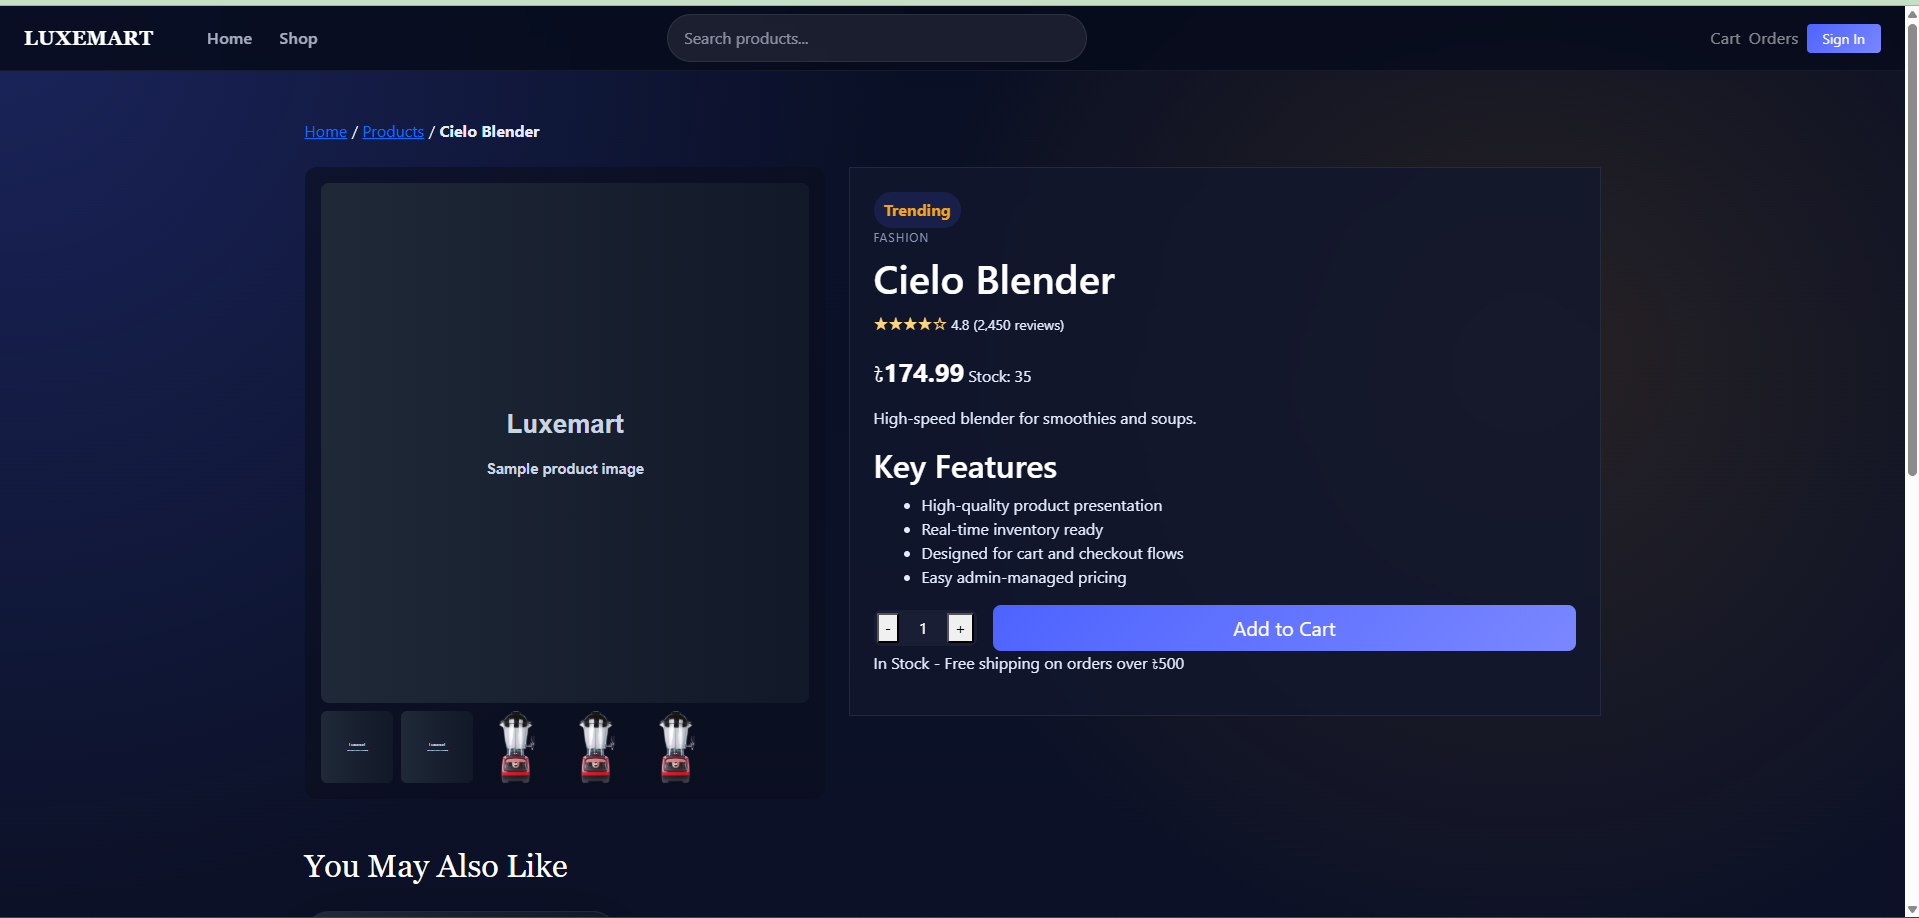
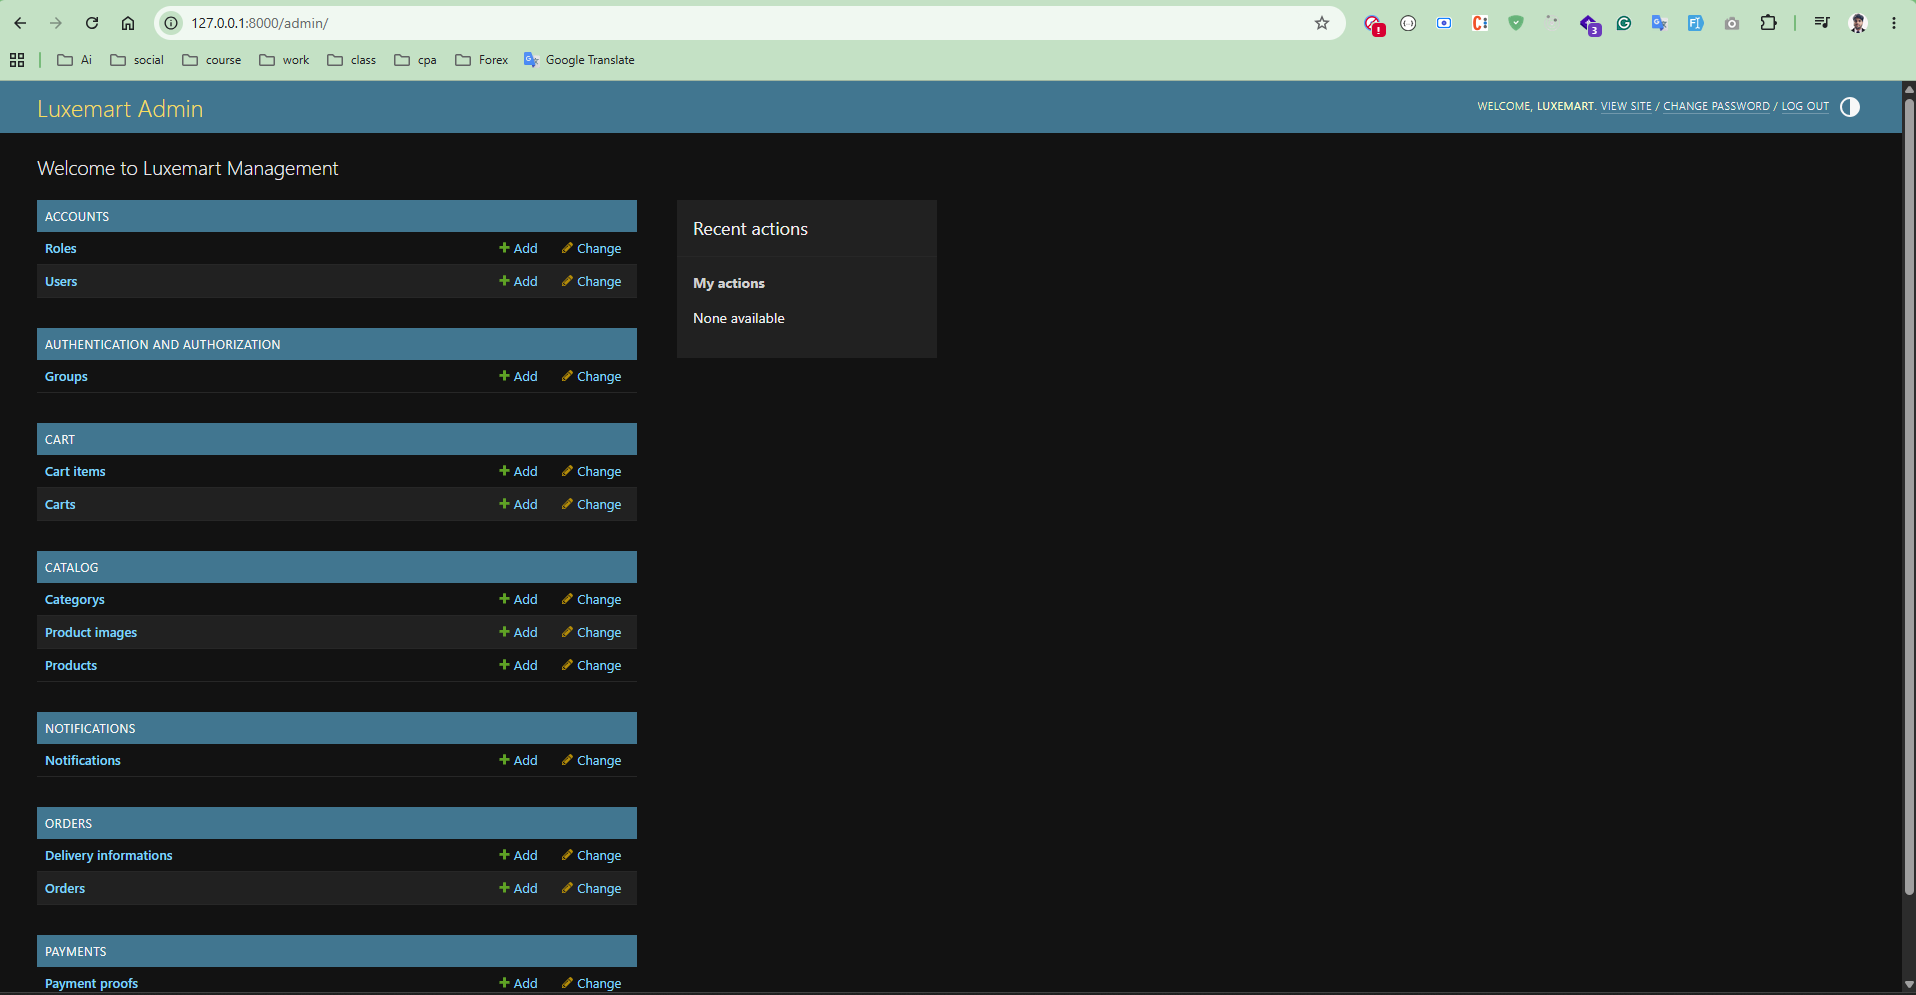
user and admin both signin page is fixed

diff --git a/templates/admin/login.html b/templates/admin/login.html
@@ -1,135 +1,128 @@
-{% extends "admin/base_site.html" %}
 {% load i18n static %}
+<!DOCTYPE html>
+<html lang="en">
+<head>
+    <meta charset="UTF-8">
+    <meta name="viewport" content="width=device-width, initial-scale=1.0">
+    <title>{% translate 'Log in' %} | Luxemart Admin</title>
+    <link href="https://cdn.jsdelivr.net/npm/bootstrap@5.3.3/dist/css/bootstrap.min.css" rel="stylesheet">
+    <link rel="stylesheet" href="{% static 'css/app.css' %}">
+    <style>
+        body {
+            background: radial-gradient(circle at top left, rgba(77, 99, 255, 0.25), transparent 35%),
+                        radial-gradient(circle at 80% 20%, rgba(247, 162, 27, 0.12), transparent 30%),
+                        linear-gradient(180deg, #090f24 0%, #0b1127 38%, #0b1022 100%) !important;
+            min-height: 100vh;
+            display: flex;
+            align-items: center;
+            justify-content: center;
+            color: #e5ecff;
+            font-family: 'Segoe UI', system-ui, -apple-system, sans-serif;
+        }
+        .admin-login-card {
+            background: rgba(17, 23, 45, 0.76);
+            border: 1px solid rgba(255, 255, 255, 0.08);
+            border-radius: 24px;
+            padding: 3.5rem;
+            box-shadow: 0 24px 60px rgba(0, 0, 0, 0.4);
+            backdrop-filter: blur(16px);
+            width: 100%;
+            max-width: 500px;
+        }
+        .luxe-brand {
+            font-family: 'Georgia', serif;
+            letter-spacing: 0.1em;
+            text-transform: uppercase;
+            font-size: 2rem;
+            margin-bottom: 0.5rem;
+            display: block;
+        }
+        .form-label {
+            font-weight: 700;
+            font-size: 0.9rem;
+            margin-bottom: 0.6rem;
+            color: #fff;
+        }
+        .form-control {
+            background: rgba(255, 255, 255, 0.08) !important;
+            border: 1px solid rgba(255, 255, 255, 0.12) !important;
+            color: #fff !important;
+            padding: 0.8rem 1.1rem !important;
+            border-radius: 12px !important;
+        }
+        .form-control:focus {
+            background-color: rgba(255, 255, 255, 0.1) !important;
+            border-color: rgba(125, 211, 252, 0.55) !important;
+            box-shadow: 0 0 0 0.2rem rgba(56, 189, 248, 0.16) !important;
+        }
+        .btn-primary {
+            background: linear-gradient(135deg, #4d63ff, #7a87ff) !important;
+            border: none !important;
+            padding: 1rem !important;
+            border-radius: 12px !important;
+            font-weight: 700 !important;
+            text-transform: uppercase;
+            letter-spacing: 0.08em;
+            margin-top: 1rem;
+        }
+        .errornote {
+            background: rgba(239, 68, 68, 0.14);
+            border: 1px solid rgba(239, 68, 68, 0.25);
+            border-radius: 12px;
+            color: #fecaca;
+            padding: 1rem;
+            margin-bottom: 2rem;
+            font-size: 0.85rem;
+            text-align: center;
+        }
+        .admin-footer {
+            margin-top: 2.5rem;
+            text-align: center;
+            font-size: 0.85rem;
+            color: rgba(229, 236, 255, 0.5);
+        }
+    </style>
+</head>
+<body>
+    <div class="admin-login-card">
+        <div class="text-center mb-5">
+            <span class="luxe-brand">LUXEMART</span>
+            <h1 class="h4 text-white mb-2">Staff Portal</h1>
+            <p class="text-muted small">Authorized access only</p>
+        </div>
 
-{% block extrastyle %}
-{{ block.super }}
-<link rel="stylesheet" href="{% static 'css/app.css' %}">
-<style>
-    body {
-        display: flex;
-        align-items: center;
-        justify-content: center;
-        min-height: 100vh;
-        margin: 0;
-    }
-    #container {
-        background: none !important;
-        border: none !important;
-        width: 100%;
-        max-width: 450px;
-        padding: 0 1rem;
-    }
-    #content {
-        padding: 0 !important;
-    }
-    .login #header {
-        background: none !important;
-        border: none !important;
-        text-align: center;
-        margin-bottom: 2rem;
-    }
-    .login #branding h1 {
-        font-family: 'Georgia', serif;
-        font-size: 2.5rem;
-        color: #fff !important;
-        margin: 0;
-    }
-    .luxe-card-admin {
-        background: rgba(17, 23, 45, 0.76);
-        border: 1px solid rgba(255, 255, 255, 0.08);
-        border-radius: 24px;
-        padding: 2.5rem;
-        box-shadow: 0 24px 60px rgba(0, 0, 0, 0.24);
-        backdrop-filter: blur(16px);
-    }
-    .login .form-row {
-        padding: 0 !important;
-        margin-bottom: 1.5rem;
-        border: none !important;
-    }
-    .login .form-row label {
-        display: block;
-        margin-bottom: 0.5rem;
-        color: rgba(229, 236, 255, 0.82);
-        font-weight: 700;
-    }
-    .login .form-row input {
-        width: 100% !important;
-        padding: 0.8rem 1rem !important;
-        border-radius: 12px !important;
-        background: rgba(255, 255, 255, 0.08) !important;
-        border: 1px solid rgba(255, 255, 255, 0.12) !important;
-        color: #fff !important;
-        box-sizing: border-box;
-    }
-    .submit-row {
-        padding: 0 !important;
-        margin: 2rem 0 0 !important;
-        background: none !important;
-        border: none !important;
-    }
-    .submit-row input {
-        width: 100% !important;
-        padding: 1rem !important;
-        border-radius: 12px !important;
-        background: linear-gradient(135deg, #4d63ff, #7a87ff) !important;
-        color: #fff !important;
-        font-weight: 700 !important;
-        text-transform: uppercase;
-        letter-spacing: 0.05em;
-        border: none !important;
-        cursor: pointer;
-        transition: opacity 0.2s;
-    }
-    .submit-row input:hover {
-        opacity: 0.9;
-    }
-    .errornote {
-        background: rgba(239, 68, 68, 0.18) !important;
-        border: 1px solid rgba(239, 68, 68, 0.32) !important;
-        border-radius: 12px !important;
-        color: #fecaca !important;
-        padding: 1rem !important;
-        margin-bottom: 1.5rem !important;
-    }
-</style>
-{% endblock %}
+        {% if form.errors and not form.non_field_errors %}
+            <div class="errornote">
+                {% blocktranslate count counter=form.errors.items|length %}Please correct the error below.{% plural %}Please correct the errors below.{% endblocktranslate %}
+            </div>
+        {% endif %}
 
-{% block content %}
-<div class="luxe-card-admin">
-    {% if form.errors and not form.non_field_errors %}
-    <p class="errornote">
-    {% if form.errors.items|length == 1 %}{% translate "Please correct the error below." %}{% else %}{% translate "Please correct the errors below." %}{% endif %}
-    </p>
-    {% endif %}
+        {% if form.non_field_errors %}
+            {% for error in form.non_field_errors %}
+                <div class="errornote">{{ error }}</div>
+            {% endfor %}
+        {% endif %}
 
-    {% if form.non_field_errors %}
-    {% for error in form.non_field_errors %}
-    <p class="errornote">
-        {{ error }}
-    </p>
-    {% endfor %}
-    {% endif %}
+        <form action="{{ app_path }}" method="post" id="login-form">
+            {% csrf_token %}
+            <div class="mb-4">
+                <label for="id_username" class="form-label">Username or Email</label>
+                <input type="text" name="username" class="form-control" id="id_username" required autofocus placeholder="Enter your credentials">
+            </div>
+            <div class="mb-4">
+                <label for="id_password" class="form-label">Password</label>
+                <input type="password" name="password" class="form-control" id="id_password" required placeholder="••••••••">
+                <input type="hidden" name="next" value="{{ next }}">
+            </div>
+            
+            <div class="d-grid">
+                <button type="submit" class="btn btn-primary btn-lg">Authorize Access</button>
+            </div>
+        </form>
 
-    <form action="{{ app_path }}" method="post" id="login-form">{% csrf_token %}
-      <div class="form-row">
-        {{ form.username.errors }}
-        {{ form.username.label_tag }} {{ form.username }}
-      </div>
-      <div class="form-row">
-        {{ form.password.errors }}
-        {{ form.password.label_tag }} {{ form.password }}
-        <input type="hidden" name="next" value="{{ next }}">
-      </div>
-      {% url 'admin_password_reset' as password_reset_url %}
-      {% if password_reset_url %}
-      <div class="password-reset-link" style="text-align: right; margin-top: -10px;">
-        <a href="{{ password_reset_url }}" style="color: #b8c2ff; text-decoration: none; font-size: 0.85rem;">{% translate 'Forgotten your password or username?' %}</a>
-      </div>
-      {% endif %}
-      <div class="submit-row">
-        <input type="submit" value="{% translate 'Log in' %}">
-      </div>
-    </form>
-</div>
-{% endblock %}
+        <div class="admin-footer">
+            &copy; 2026 Luxemart. Control Center.
+        </div>
+    </div>
+</body>
+</html>

diff --git a/templates/accounts/login.html b/templates/accounts/login.html
@@ -1,27 +1,51 @@
 {% extends 'base.html' %}
 {% block title %}Sign In | Luxemart{% endblock %}
 {% block content %}
-<div class="row justify-content-center">
+<div class="row justify-content-center align-items-center" style="min-height: 70vh;">
   <div class="col-md-5">
-    <div class="luxe-card p-4">
-      <h1 class="h3 mb-4 text-center">Sign In</h1>
+    <div class="luxe-card p-5">
+      <div class="text-center mb-5">
+        <h1 class="h2 mb-2">Welcome Back</h1>
+        <p class="text-muted">Enter your credentials to access your account.</p>
+      </div>
+
       <form method="post" class="admin-form">
         {% csrf_token %}
         {{ form.non_field_errors }}
-        <div class="mb-3">
-          <label for="{{ form.username.id_for_label }}" class="form-label">Username or Email</label>
-          {{ form.username }}
+        
+        <div class="mb-4">
+          <label for="{{ form.username.id_for_label }}" class="form-label fw-bold">Username or Email</label>
+          <div class="input-group">
+            {{ form.username }}
+          </div>
           {{ form.username.errors }}
         </div>
+
         <div class="mb-4">
-          <label for="{{ form.password.id_for_label }}" class="form-label">Password</label>
-          {{ form.password }}
+          <div class="d-flex justify-content-between">
+            <label for="{{ form.password.id_for_label }}" class="form-label fw-bold">Password</label>
+            <a href="#" class="text-primary small text-decoration-none">Forgot Password?</a>
+          </div>
+          <div class="input-group">
+            {{ form.password }}
+          </div>
           {{ form.password.errors }}
         </div>
-        <button type="submit" class="btn btn-primary w-100 btn-lg">Sign In</button>
+
+        <div class="mb-4">
+          <div class="form-check">
+            <input class="form-check-input" type="checkbox" id="rememberMe">
+            <label class="form-check-label text-muted small" for="rememberMe">
+              Remember me for 30 days
+            </label>
+          </div>
+        </div>
+
+        <button type="submit" class="btn btn-primary w-100 btn-lg py-3 fw-bold">Sign In to Account</button>
       </form>
-      <div class="mt-4 text-center">
-        <p class="mb-0">Don't have an account? <a href="{% url 'accounts:register' %}" class="text-primary fw-bold">Sign Up</a></p>
+
+      <div class="mt-5 text-center">
+        <p class="mb-0">New to Luxemart? <a href="{% url 'accounts:register' %}" class="text-primary fw-bold text-decoration-none">Create an account</a></p>
       </div>
     </div>
   </div>

diff --git a/apps/accounts/forms.py b/apps/accounts/forms.py
@@ -1,6 +1,6 @@
 from django import forms
 from django.contrib.auth import get_user_model
-from django.contrib.auth.forms import UserCreationForm
+from django.contrib.auth.forms import AuthenticationForm, UserCreationForm
 
 
 class UserRegistrationForm(UserCreationForm):
@@ -28,3 +28,10 @@ class UserRegistrationForm(UserCreationForm):
         if commit:
             user.save()
         return user
+
+
+class UserLoginForm(AuthenticationForm):
+    def __init__(self, *args, **kwargs):
+        super().__init__(*args, **kwargs)
+        for field in self.fields:
+            self.fields[field].widget.attrs.update({'class': 'form-control'})

diff --git a/apps/accounts/urls.py b/apps/accounts/urls.py
@@ -2,12 +2,13 @@ from django.contrib.auth import views as auth_views
 from django.urls import path
 
 from . import views
+from .forms import UserLoginForm
 
 app_name = "accounts"
 
 urlpatterns = [
     path("profile/", views.profile, name="profile"),
-    path("login/", auth_views.LoginView.as_view(template_name="accounts/login.html"), name="login"),
+    path("login/", auth_views.LoginView.as_view(template_name="accounts/login.html", authentication_form=UserLoginForm), name="login"),
     path("logout/", auth_views.LogoutView.as_view(), name="logout"),
     path("register/", views.register, name="register"),
 ]

diff --git a/apps/catalog/admin.py b/apps/catalog/admin.py
@@ -55,3 +55,8 @@ class ProductImageAdmin(admin.ModelAdmin):
         return "No image"
 
     image_preview.short_description = "Preview"
+
+
+admin.site.site_header = "Luxemart Admin"
+admin.site.site_title = "Luxemart Portal"
+admin.site.index_title = "Welcome to Luxemart Management"
